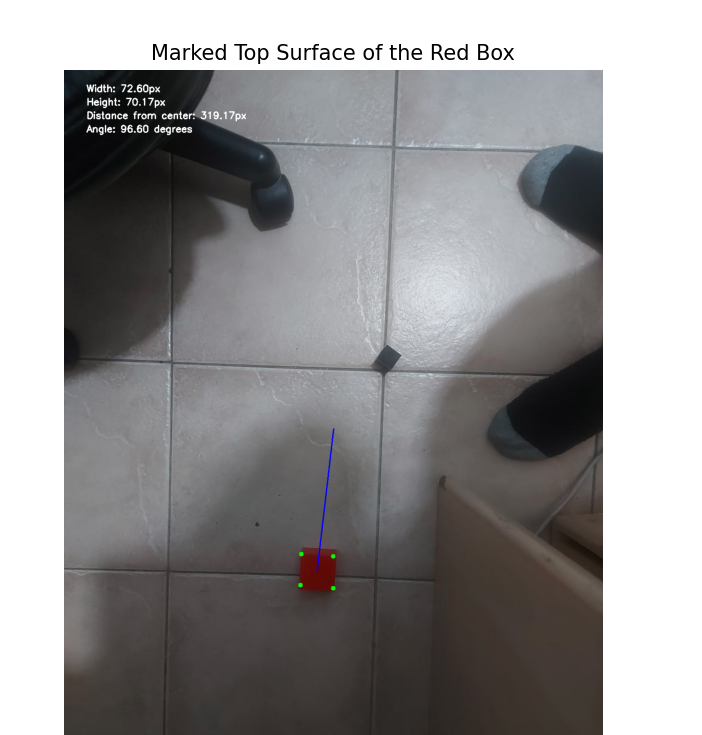
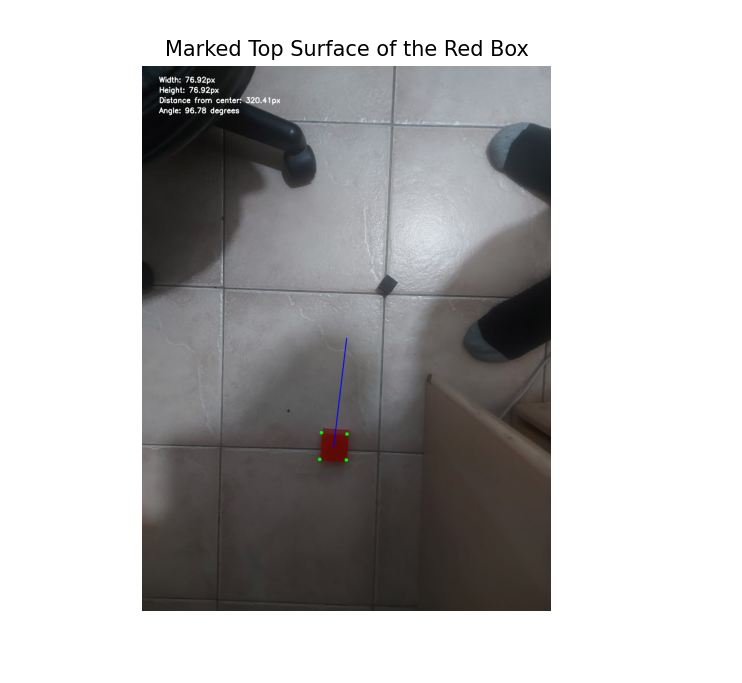
final calculation of real size box experiment

diff --git a/src/data/experiments/final_calc.py b/src/data/experiments/final_calc.py
@@ -1,0 +1,27 @@
+import numpy as np
+
+# Camera specifications
+camera_height_cm = 73.5  # Camera height from the floor in centimeters
+horizontal_fov_degrees = 70.5  # Horizontal field of view in degrees
+vertical_fov_degrees = 55.9  # Vertical field of view in degrees
+
+# Image resolution
+resolution_width, resolution_height = 1200, 1600  # Assuming portrait orientation
+
+# Calculate the physical FOV widths at the floor level
+horizontal_fov_width_cm = 2 * (np.tan(np.radians(horizontal_fov_degrees / 2)) * camera_height_cm)
+vertical_fov_height_cm = 2 * (np.tan(np.radians(vertical_fov_degrees / 2)) * camera_height_cm)
+
+# Calculate the cm_per_pixel ratio for both width and height
+cm_per_pixel_width = horizontal_fov_width_cm / resolution_width
+cm_per_pixel_height = vertical_fov_height_cm / resolution_height
+
+# Box dimensions in pixels (from your image measurements)
+box_width_px = 76.92  # Width in pixels
+
+# Calculate the real-world dimensions of the box using both the width and height ratios
+box_width_cm = box_width_px * cm_per_pixel_width
+box_height_cm = box_width_px * cm_per_pixel_height  # if the real-world box is square
+
+print(f"The box's real-world width is approximately: {box_width_cm:.2f} cm")
+print(f"The box's real-world height is approximately: {box_height_cm:.2f} cm")

diff --git a/src/data/experiments/image_res.py b/src/data/experiments/image_res.py
@@ -1,7 +1,7 @@
 import cv2
 
 # Load the image using OpenCV
-image_path = 'C:/Users/gbo10/Videos/research/counting_research_algorithms/src/data/experiments/1.jpegW'  # Update this with your actual image path
+image_path = 'C:/Users/gbo10/Videos/research/counting_research_algorithms/src/data/experiments/1.jpeg'  # Update this with your actual image path
 image = cv2.imread(image_path)
 
 # Get image resolution

diff --git a/src/data/experiments/mark.py b/src/data/experiments/mark.py
@@ -3,7 +3,7 @@ import numpy as np
 import cv2
 
 # Load the image using OpenCV
-image_path = 'C:/Users/gbo10/Videos/research/counting_research_algorithms/src/data/experiments/1.jpeg'
+image_path = 'C:/Users/gbo10/Videos/research/counting_research_algorithms/src/data/experiments/3.jpg'
 image = cv2.imread(image_path)
 image_to_show = image.copy()
 
